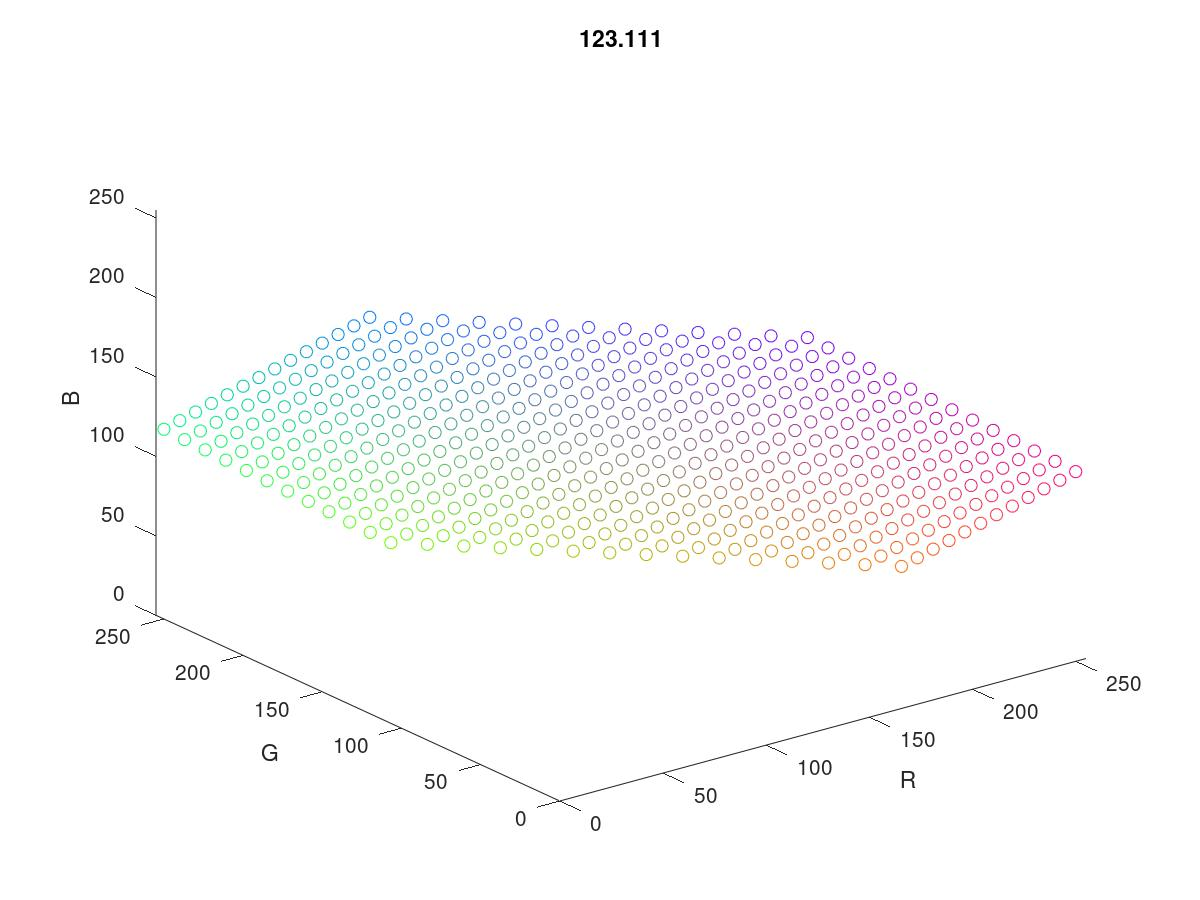
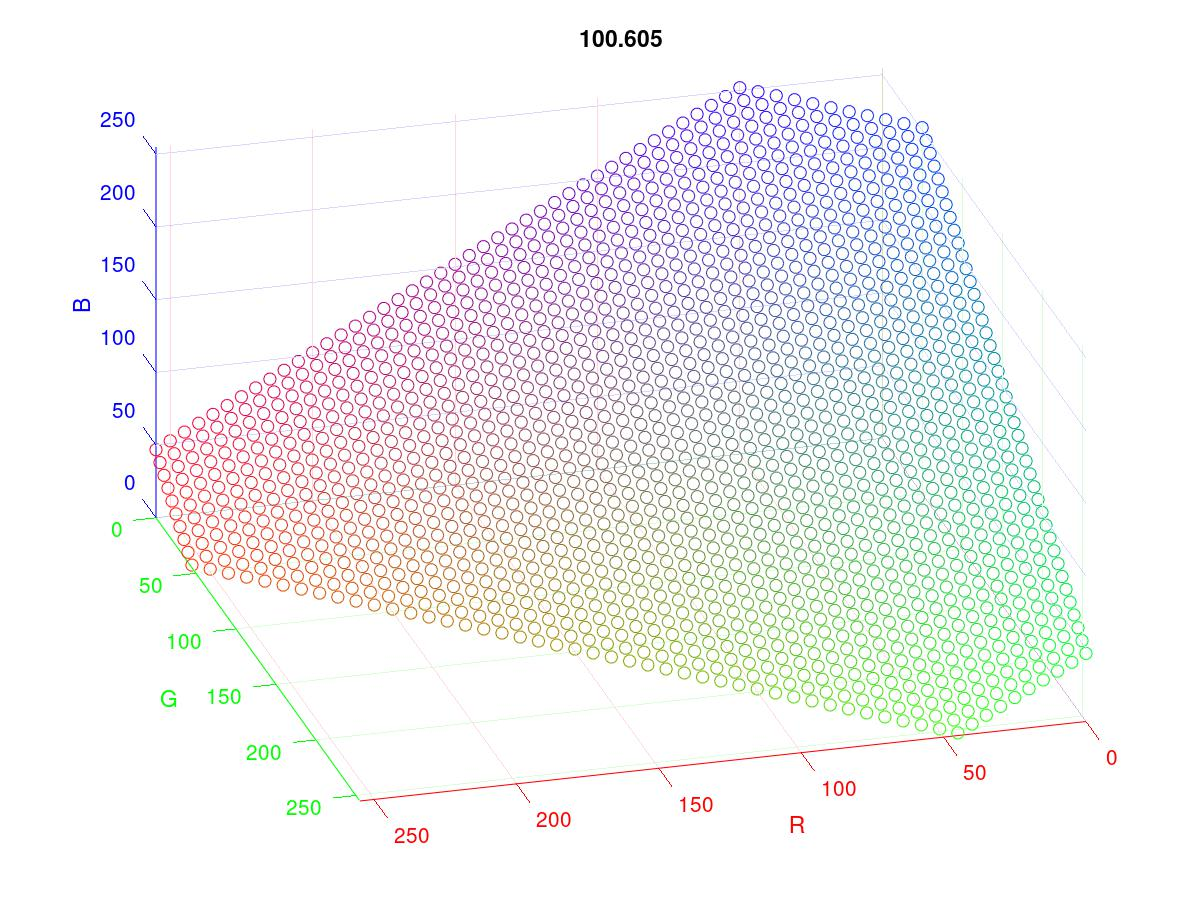
Small improvments

diff --git a/colorSpaces.m b/colorSpaces.m
@@ -6,16 +6,13 @@ function selection(src,event)
 end
 
 function plotstuff (k)
-  step = 10;
+  step = 5;
   clf;
   for x = 0:step:255
     for y = 0:step:255
       z = 3*k-x-y;
       if z>=0 && z<=255
         plot3 (x, y, z, 'o', 'Color',[x/255 y/255 z/255]);
-        hold on;
-      else
-        plot3 (x, y, z, 'o', 'Color',[0 0 0]);
         hold on;
       end
       hold on;
@@ -29,6 +26,9 @@ function plotstuff (k)
   xlim([0 255]);
   ylim([0 255]);
   zlim([0 255]);
+  set(gca, 'xcolor', "red");
+  set(gca, 'ycolor', "green");
+  set(gca, 'zcolor', "blue");
   slider = uicontrol (                   ...
            "style", "slider",                ...
            "Units", "normalized",            ...
@@ -40,4 +40,4 @@ function plotstuff (k)
        );
 end
 
-plotstuff(10);
+plotstuff(20);
